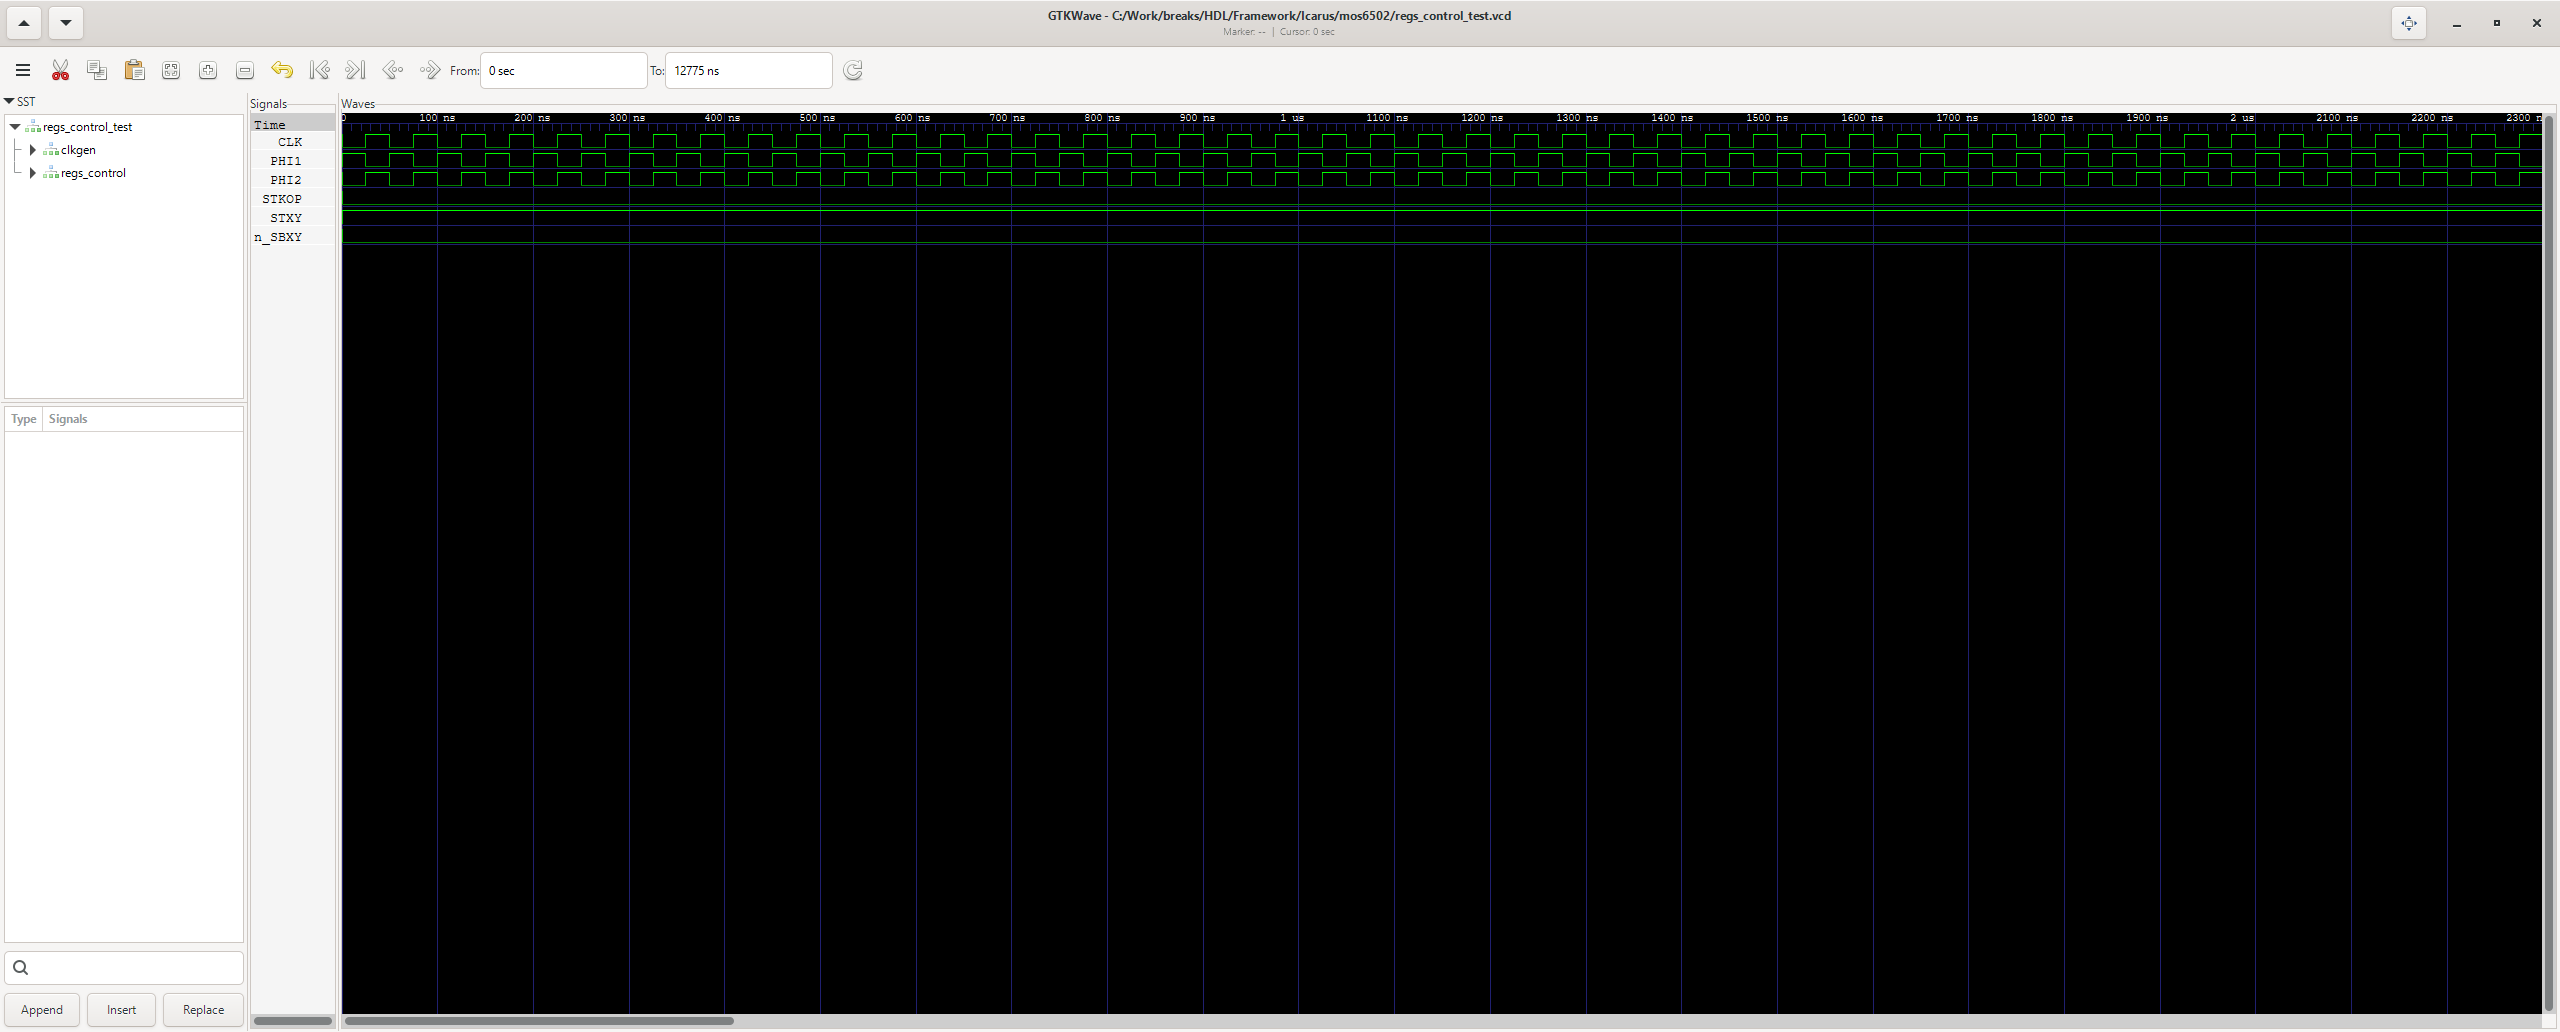
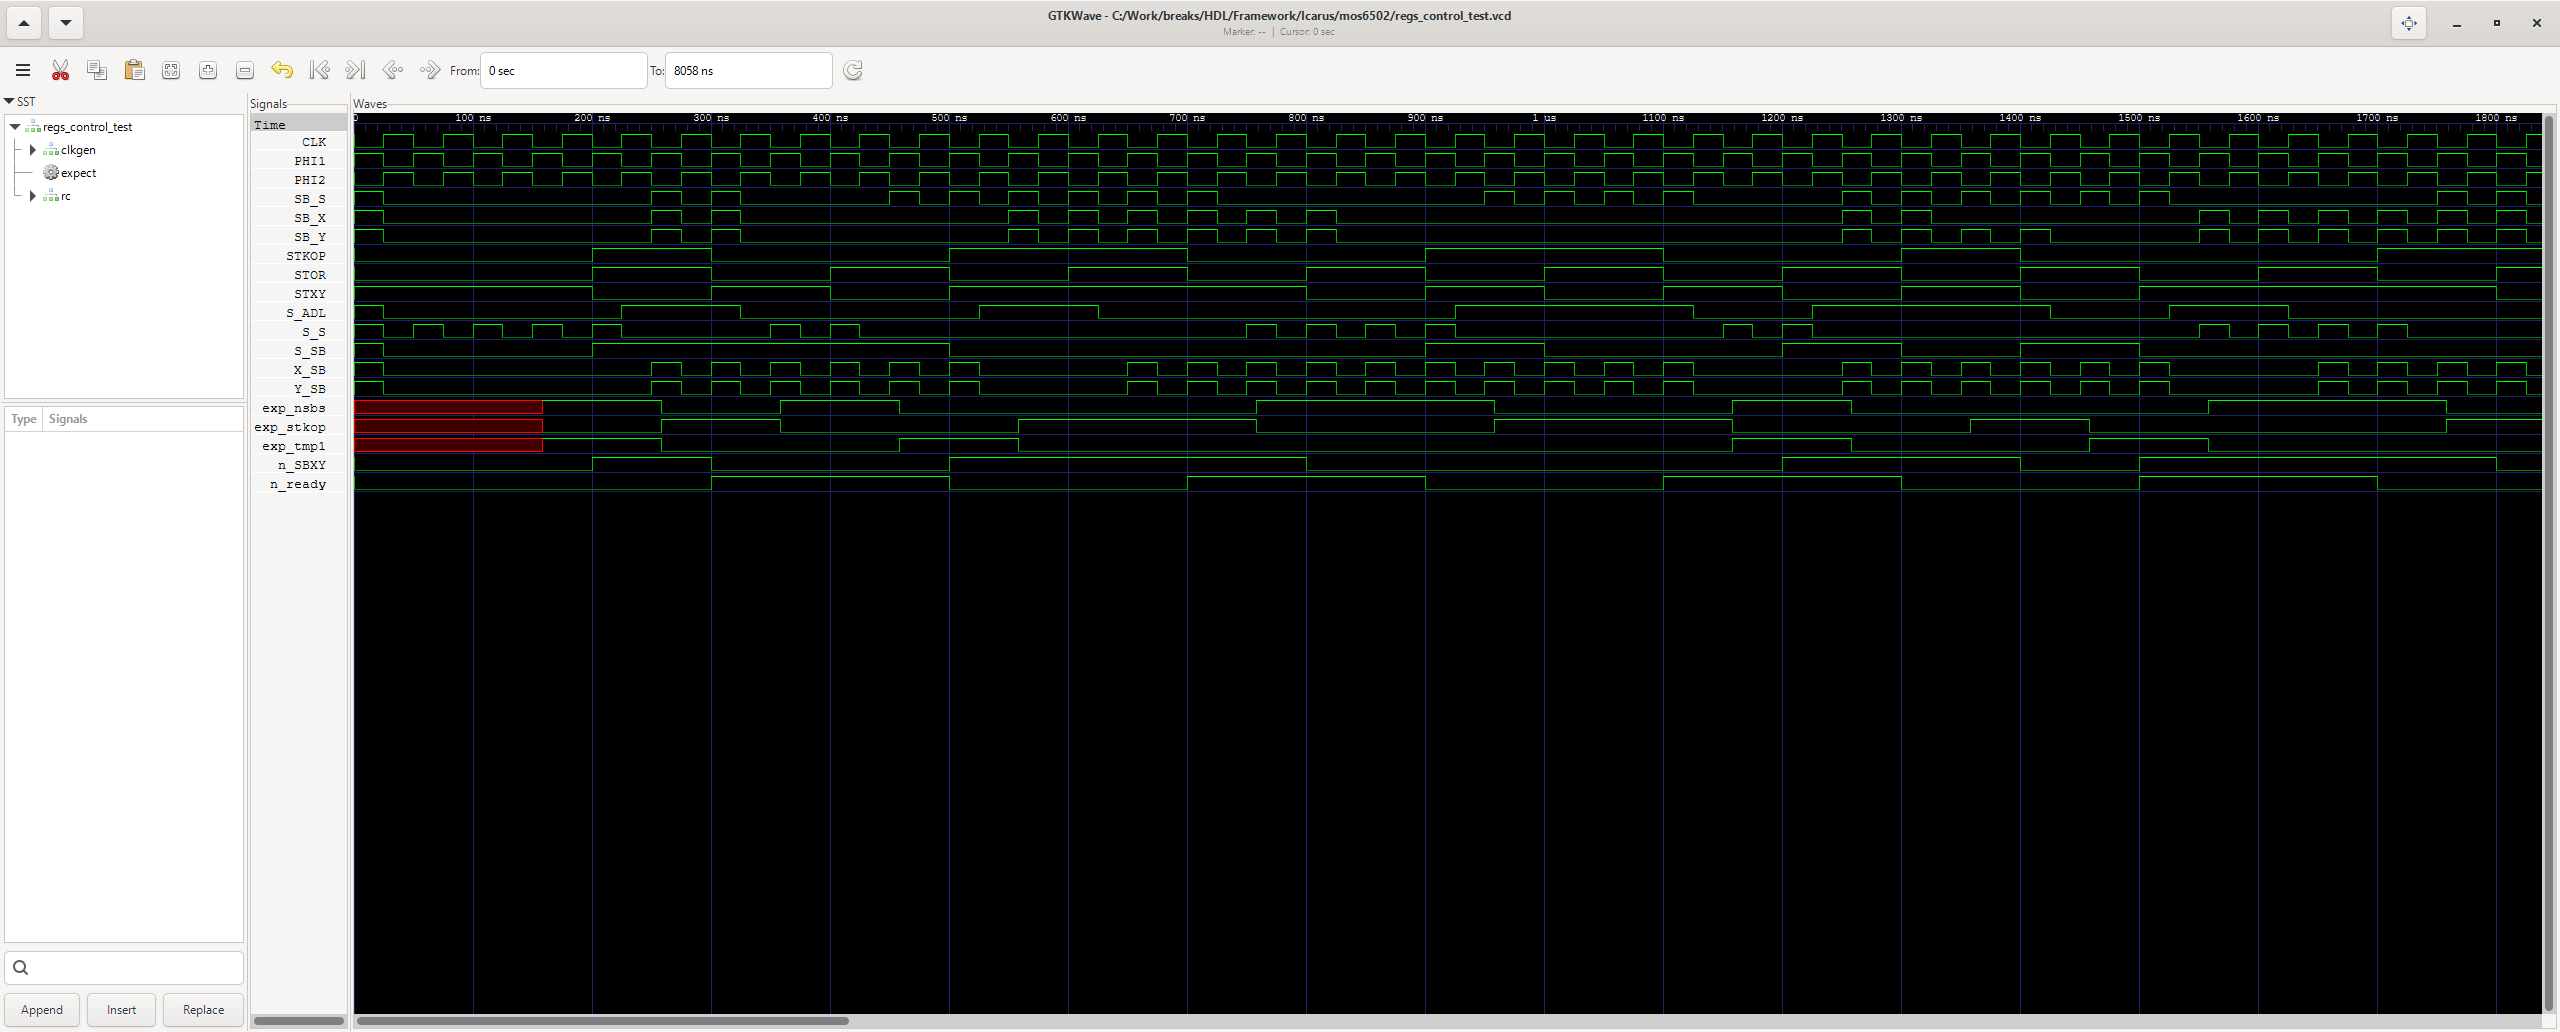
6502 tests: self-checking regs control test
regs_control_test sweeps STOR/n_ready and X decode patterns, samples the
effective register commands in PHI1 and checks all 11 outputs against
their decode equations (880 checks, TEST PASS). Waveform screenshot
regenerated.

diff --git a/HDL/Framework/Icarus/mos6502/Waves.md b/HDL/Framework/Icarus/mos6502/Waves.md
@@ -34,6 +34,6 @@ Scripts/gtkw_capture_all.sh
 | bus_control_test | TEST PASS (195 checks) | ![waves/bus_control_test.png](waves/bus_control_test.png) |
 | flags_control_test | TEST PASS (1056 checks) | ![waves/flags_control_test.png](waves/flags_control_test.png) |
 | pc_control_test | waveform | ![waves/pc_control_test.png](waves/pc_control_test.png) |
-| regs_control_test | waveform | ![waves/regs_control_test.png](waves/regs_control_test.png) |
+| regs_control_test | TEST PASS (880 checks) | ![waves/regs_control_test.png](waves/regs_control_test.png) |
 | pc_test | waveform | ![waves/pc_test.png](waves/pc_test.png) |
 | regs_test | TEST PASS (9 checks) | ![waves/regs_test.png](waves/regs_test.png) |
